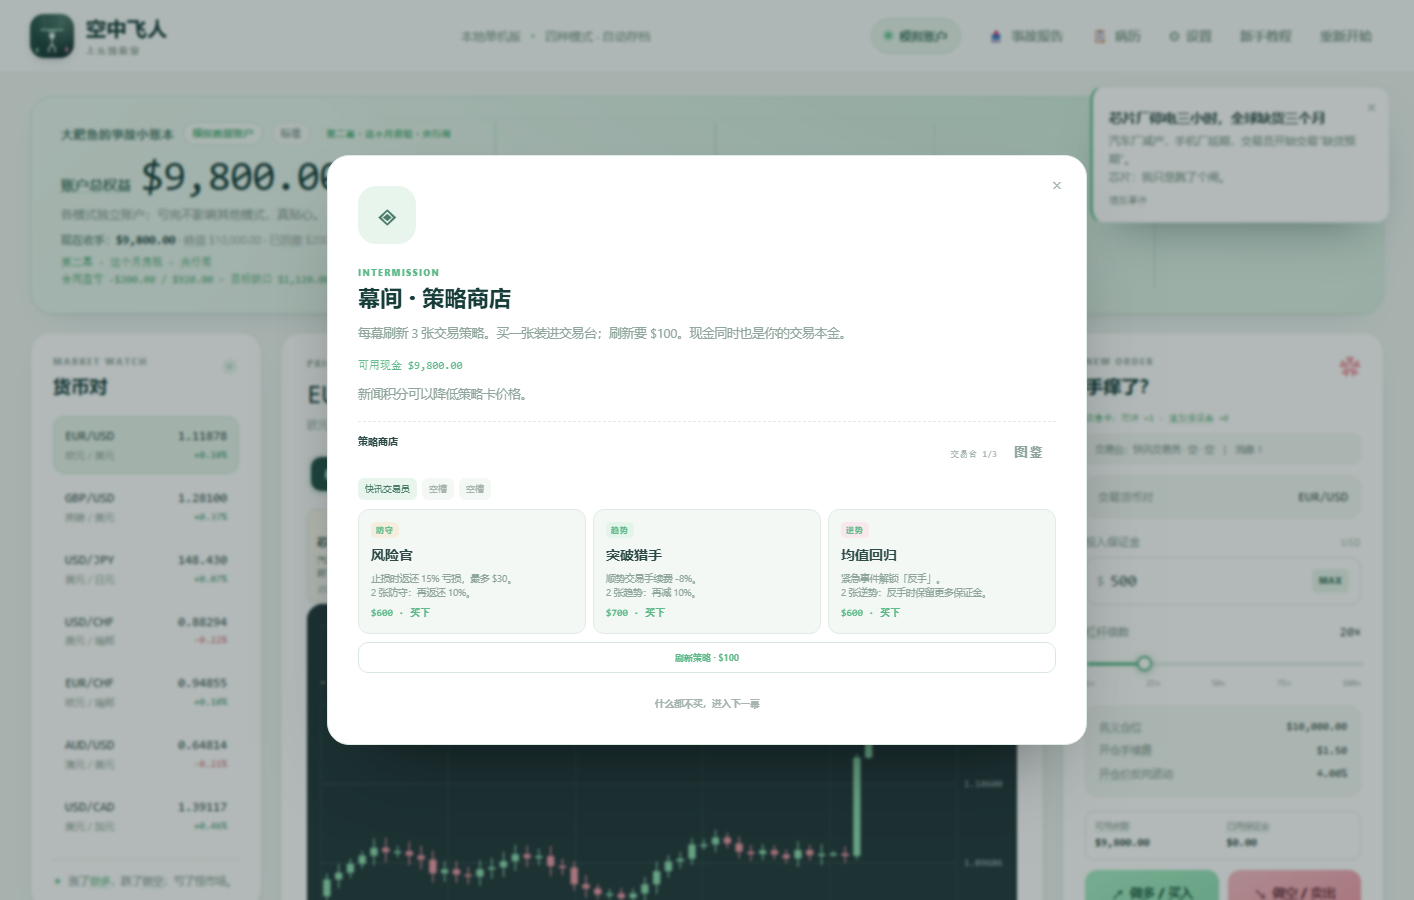
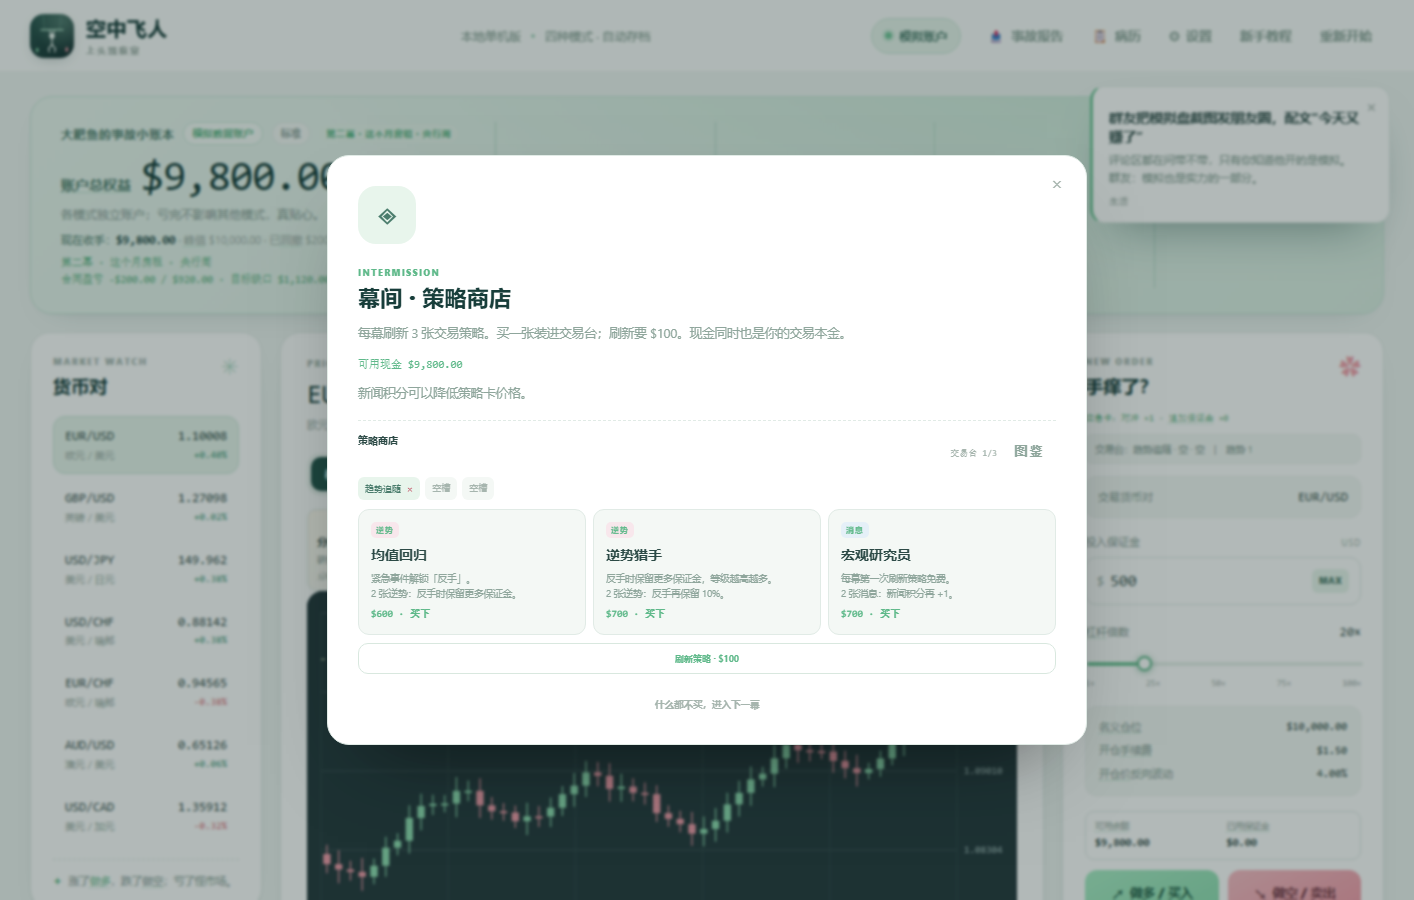
Differentiate strategy cards, add card upgrades, selling, and free reroll

diff --git a/engine.js b/engine.js
@@ -317,7 +317,19 @@
 
   function strategyDeckCards() {
     const ids = state.contract?.strategyDeck || [];
-    return ids.map(id => (D.STRATEGY_CARDS || []).find(card => card.id === id)).filter(Boolean);
+    const levels = state.contract?.strategyLevels || {};
+    return ids.map(id => {
+      const card = (D.STRATEGY_CARDS || []).find(item => item.id === id);
+      return card ? { ...card, level: Math.max(1, Math.min(3, Number(levels[id]) || 1)) } : null;
+    }).filter(Boolean);
+  }
+
+  function strategyLevel(cardId) {
+    return Math.max(1, Math.min(3, Number(state.contract?.strategyLevels?.[cardId]) || 1));
+  }
+
+  function strategyHasCard(cardId) {
+    return (state.contract?.strategyDeck || []).includes(cardId);
   }
 
   function strategyStyleCount(style) {
@@ -346,6 +358,7 @@
     if (!contract || !contract.strategyPending) return { ok: false, message: '现在不需要选择起始策略。' };
     if (!(contract.strategyStartOffers || []).includes(cardId)) return { ok: false, message: '这张策略不在本次选择里。' };
     contract.strategyDeck = [cardId];
+    contract.strategyLevels = { [cardId]: 1 };
     contract.strategyPending = false;
     contract.strategyStartOffers = [];
     contract.strategyOffers = [];
@@ -357,7 +370,7 @@
   function refreshStrategyOffers() {
     const contract = state.contract;
     if (!contract || settings.coachMode) return [];
-    contract.strategyOffers = drawStrategyCards(3, contract.strategyDeck || []);
+    contract.strategyOffers = drawStrategyCards(3, []);
     contract.strategyBought = false;
     save();
     emit();
@@ -367,19 +380,22 @@
   function rerollStrategyOffers() {
     const contract = state.contract;
     if (!contract || !contract.pendingShop || contract.strategyBought) return { ok: false, message: '现在不能刷新。' };
-    if (state.cash < 100) return { ok: false, message: '刷新需要 $100。' };
-    state.cash -= 100;
-    contract.strategyOffers = drawStrategyCards(3, contract.strategyDeck || []);
+    const cost = strategyFreeReroll() ? 0 : 100;
+    if (state.cash < cost) return { ok: false, message: `刷新需要 $${cost}。` };
+    state.cash -= cost;
+    contract.strategyOffers = drawStrategyCards(3, []);
     contract.strategyRerolls = (contract.strategyRerolls || 0) + 1;
     save();
     emit();
-    return { ok: true };
+    return { ok: true, cost };
   }
 
   function buyStrategyCard(cardId) {
     const contract = state.contract;
     if (!contract || !contract.pendingShop || contract.strategyBought) return { ok: false, message: '本次商店已经买过策略了。' };
-    if ((contract.strategyDeck || []).length >= 3) return { ok: false, message: '交易台已满。' };
+    const owned = (contract.strategyDeck || []).includes(cardId);
+    if (!owned && (contract.strategyDeck || []).length >= 3) return { ok: false, message: '交易台已满。' };
+    if (owned && strategyLevel(cardId) >= 3) return { ok: false, message: '这张策略已经满级。' };
     if ((contract.strategyOffers || []).length && !(contract.strategyOffers || []).includes(cardId)) {
       return { ok: false, message: '这张策略不在商店里。' };
     }
@@ -387,31 +403,67 @@
     const price = strategyPrice(card);
     if (!card || state.cash < price) return { ok: false, message: '现金不够。' };
     state.cash -= price;
-    contract.strategyDeck = [...(contract.strategyDeck || []), cardId];
+    contract.strategyLevels = contract.strategyLevels || {};
+    if (owned) {
+      contract.strategyLevels[cardId] = Math.min(3, strategyLevel(cardId) + 1);
+    } else {
+      contract.strategyDeck = [...(contract.strategyDeck || []), cardId];
+      contract.strategyLevels[cardId] = 1;
+    }
     contract.strategyBought = true;
     save();
     emit();
-    return { ok: true, card };
+    return { ok: true, card, level: contract.strategyLevels[cardId] };
+  }
+
+  function sellStrategyCard(cardId) {
+    const contract = state.contract;
+    if (!contract || !contract.pendingShop || contract.strategyBought) return { ok: false, message: '本次商店已经操作过了。' };
+    const card = (D.STRATEGY_CARDS || []).find(item => item.id === cardId);
+    if (!card || !(contract.strategyDeck || []).includes(cardId)) return { ok: false, message: '交易台没有这张策略。' };
+    const level = strategyLevel(cardId);
+    state.cash += Math.round(card.cost * level * 0.5);
+    contract.strategyDeck = contract.strategyDeck.filter(id => id !== cardId);
+    delete contract.strategyLevels[cardId];
+    contract.strategyBought = true;
+    save();
+    emit();
+    return { ok: true, card, refund: Math.round(card.cost * level * 0.5) };
   }
 
   function strategyFeeDiscount() {
-    const count = strategyStyleCount('trend');
-    if (!count) return 0;
-    return Math.min(0.2, count * 0.06 + (count >= 2 ? 0.05 : 0));
+    if (!strategyHasCard('trend-follow')) return 0;
+    const level = strategyLevel('trend-follow');
+    return Math.min(0.25, level * 0.05 + (strategyStyleCount('trend') >= 2 ? 0.05 : 0));
   }
 
   function strategyNewsBonus() {
-    const count = strategyStyleCount('news');
-    return count ? count + (count >= 2 ? 1 : 0) : 0;
+    if (!strategyHasCard('news-wire')) return 0;
+    return strategyLevel('news-wire') + (strategyStyleCount('news') >= 2 ? 1 : 0);
   }
 
   function strategyDefenseRate() {
-    const count = strategyStyleCount('defense');
-    return count ? Math.min(0.4, count * 0.15 + (count >= 2 ? 0.1 : 0)) : 0;
+    if (!strategyHasCard('defense-risk')) return 0;
+    return Math.min(0.4, strategyLevel('defense-risk') * 0.12 + (strategyStyleCount('defense') >= 2 ? 0.1 : 0));
+  }
+
+  function strategyTakeProfitBonus() {
+    if (!strategyHasCard('trend-break')) return 0;
+    return strategyLevel('trend-break') * 0.05;
+  }
+
+  function strategyFreeReroll() {
+    return strategyHasCard('news-macro') && (state.contract?.strategyRerolls || 0) === 0;
   }
 
   function strategyContrarianCount() {
     return strategyStyleCount('contrarian');
+  }
+
+  function strategyReverseKeep() {
+    const synergy = strategyStyleCount('contrarian') >= 2 ? 0.1 : 0;
+    if (strategyHasCard('contrarian-fade')) return Math.min(0.85, 0.5 + strategyLevel('contrarian-fade') * 0.1 + synergy);
+    return Math.min(0.85, 0.5 + synergy);
   }
 
   function contractGrade() {
@@ -540,6 +592,7 @@
       emergencyCount: 0,
       emergencyActive: false,
       strategyDeck: [],
+      strategyLevels: {},
       strategyPending: !!(!settings.coachMode && config.id !== 'free'),
       strategyStartOffers: [],
       strategyOffers: [],
@@ -614,6 +667,10 @@
       state.contract.strategyDeck = Array.isArray(state.contract.strategyDeck)
         ? state.contract.strategyDeck.filter(id => (D.STRATEGY_CARDS || []).some(card => card.id === id)).slice(0, 3)
         : [];
+      state.contract.strategyLevels = state.contract.strategyLevels && typeof state.contract.strategyLevels === 'object' ? state.contract.strategyLevels : {};
+      (state.contract.strategyDeck || []).forEach(id => {
+        state.contract.strategyLevels[id] = Math.max(1, Math.min(3, Math.floor(Number(state.contract.strategyLevels[id]) || 1)));
+      });
       state.contract.strategyPending = !settings.coachMode && !state.runClosed && !state.contract.strategyDeck.length
         ? true
         : !!state.contract.strategyPending;
@@ -919,6 +976,13 @@
       if (relief > 0) {
         state.cash += relief;
         state.contract.strategyRelief = (Number(state.contract.strategyRelief) || 0) + relief;
+      }
+    }
+    if (isContractActive() && meta.trigger === 'take' && pnl > 0) {
+      const bonus = pnl * strategyTakeProfitBonus();
+      if (bonus > 0) {
+        state.cash += bonus;
+        state.contract.strategyBonus = (Number(state.contract.strategyBonus) || 0) + bonus;
       }
     }
     state.positions.splice(index, 1);
@@ -1356,7 +1420,7 @@
       message = '使用对冲卡，平掉一半仓位。';
     } else if (action === 'margin') {
       const hasCard = contract.cards && (contract.cards.margin || 0) > 0;
-      const hasDefense = strategyStyleCount('defense') > 0;
+      const hasDefense = strategyHasCard('defense-fortress');
       if (!hasCard && !hasDefense) return { ok: false, message: '没有追加保证金手段。' };
       if (state.cash < 100) return { ok: false, message: '现金不足 $100。' };
       const pos = positions[0];
@@ -1373,7 +1437,7 @@
       const totalMargin = positions.reduce((sum, item) => sum + item.margin, 0);
       const side = -pos.side;
       positions.forEach(item => closePosition(item.id, false, { trigger: 'emergency', silent: true }));
-      state.margin = Math.max(10, Math.round(totalMargin * (strategyContrarianCount() >= 2 ? 0.75 : 0.5)));
+      state.margin = Math.max(10, Math.round(totalMargin * strategyReverseKeep()));
       const opened = openPosition(side, false);
       message = opened ? '逆势反手，仓位已反向。' : '反手失败，仓位已平。';
     } else {
@@ -2245,6 +2309,7 @@
     refreshStrategyOffers,
     rerollStrategyOffers,
     buyStrategyCard,
+    sellStrategyCard,
     strategyPrice,
     strategyDeckCards,
     strategyStyleCount,

diff --git a/ui.js b/ui.js
@@ -387,7 +387,7 @@
     addAction('close', '平仓避险', 'danger');
     if (E.strategyContrarianCount() > 0) addAction('reverse', '逆势反手', 'danger');
     addAction('hedge', `对冲卡 ×${cards.hedge || 0}`, '', !(cards.hedge > 0));
-    const hasDefense = E.strategyStyleCount('defense') > 0;
+    const hasDefense = E.strategyDeckCards().some(card => card.id === 'defense-fortress');
     addAction('margin', hasDefense && !(cards.margin > 0) ? '追加保证金（防守）' : `追加保证金 ×${cards.margin || 0}`, '', (!(cards.margin > 0) && !hasDefense) || E.state.cash < 100);
     addAction('hold', '硬扛', 'hold');
     $('emergencyModal').classList.remove('hidden');
@@ -418,7 +418,8 @@
       return;
     }
     const deck = E.strategyDeckCards();
-    const slots = [0, 1, 2].map(index => deck[index]?.name || '空');
+    const levelText = level => level > 1 ? ` ${'I'.repeat(level)}` : '';
+    const slots = [0, 1, 2].map(index => deck[index] ? `${deck[index].name}${levelText(deck[index].level)}` : '空');
     const styles = ['trend', 'news', 'contrarian', 'defense'].map(style => {
       const count = E.strategyStyleCount(style);
       return count ? `${({ trend: '趋势', news: '消息', contrarian: '逆势', defense: '防守' })[style]} ${count}` : '';
@@ -496,28 +497,43 @@
     const deck = E.strategyDeckCards();
     const offers = (contract.strategyOffers || []).length ? contract.strategyOffers : strategyOfferCache;
     if ((contract.strategyOffers || []).length) strategyOfferCache = contract.strategyOffers;
+    else if (strategyOfferCache.length) contract.strategyOffers = [...strategyOfferCache];
+    const freeReroll = E.strategyDeckCards().some(card => card.id === 'news-macro') && (contract.strategyRerolls || 0) === 0;
+    const levelText = level => level > 1 ? ` ${'I'.repeat(level)}` : '';
     root.innerHTML = `<div class="strategy-shop-head"><strong>策略商店</strong><span>交易台 ${deck.length}/3 <button type="button" id="strategyCodexBtn" class="text-button">图鉴</button></span></div>
-      <div class="strategy-shop-deck">${[0,1,2].map(i => deck[i] ? `<span>${deck[i].name}</span>` : '<span class="empty">空槽</span>').join('')}</div>
+      <div class="strategy-shop-deck">${[0,1,2].map(i => deck[i] ? `<span>${deck[i].name}${levelText(deck[i].level)} <button type="button" class="strategy-sell" data-sell="${deck[i].id}" title="卖出">×</button></span>` : '<span class="empty">空槽</span>').join('')}</div>
       <div class="strategy-offers"></div>
-      <button type="button" id="strategyReroll" class="outline-button strategy-reroll"${contract.strategyBought ? ' disabled' : ''}>刷新策略 · $100</button>`;
+      <button type="button" id="strategyReroll" class="outline-button strategy-reroll"${contract.strategyBought ? ' disabled' : ''}>刷新策略 · ${freeReroll ? '免费' : '$100'}</button>`;
     const offersRoot = root.querySelector('.strategy-offers');
     offers.forEach(cardId => {
       const card = (D.STRATEGY_CARDS || []).find(item => item.id === cardId);
       if (!card) return;
+      const owned = deck.find(item => item.id === card.id);
+      const level = owned?.level || 0;
       const price = E.strategyPrice(card);
       const button = document.createElement('button');
       button.type = 'button';
       button.className = 'strategy-offer';
-      button.disabled = !!contract.strategyBought || deck.length >= 3 || E.state.cash < price;
-      button.innerHTML = `<span class="strategy-style style-${card.style}">${card.styleLabel}</span><strong>${card.name}</strong><small>${card.desc}</small><b>$${price} · 买下</b>`;
+      button.disabled = !!contract.strategyBought || (owned ? level >= 3 : deck.length >= 3) || E.state.cash < price;
+      const action = owned ? `升级 ${level + 1 >= 3 ? 'III' : 'II'}` : '买下';
+      button.innerHTML = `<span class="strategy-style style-${card.style}">${card.styleLabel}</span><strong>${card.name}${level ? levelText(level) : ''}</strong><small>${card.desc}</small><b>$${price} · ${action}</b>`;
       button.addEventListener('click', () => {
         const result = E.buyStrategyCard(card.id);
         if (!result.ok) { toast(result.message || '买不了。'); return; }
         renderShop();
         render();
-        toast(`加入交易台：${card.name}。`);
+        toast(`${owned ? '升级' : '加入交易台'}：${card.name}${result.level > 1 ? levelText(result.level) : ''}。`);
       });
       offersRoot.append(button);
+    });
+    root.querySelectorAll('.strategy-sell').forEach(button => {
+      button.addEventListener('click', () => {
+        const result = E.sellStrategyCard(button.dataset.sell);
+        if (!result.ok) { toast(result.message || '卖不了。'); return; }
+        renderShop();
+        render();
+        toast(`卖出「${result.card.name}」，返还 ${D.money(result.refund)}。`);
+      });
     });
     root.querySelector('#strategyReroll')?.addEventListener('click', () => {
       const result = E.rerollStrategyOffers();

diff --git a/data.js b/data.js
@@ -582,15 +582,15 @@
     },
     {
       id: 'trend-break', name: '突破猎手', style: 'trend', styleLabel: '趋势', cost: 700,
-      desc: '顺势交易手续费 -8%。\n2 张趋势：再减 10%。'
+      desc: '止盈时额外获得 5% 利润/级。\n2 张趋势：手续费再减 10%。'
     },
     {
       id: 'news-wire', name: '快讯交易员', style: 'news', styleLabel: '消息', cost: 600,
-      desc: '新闻判断正确时，额外 +1 新闻积分。\n2 张消息：再 +1。'
+      desc: '新闻判断正确时，额外 +1 新闻积分/级。\n2 张消息：再 +1。'
     },
     {
       id: 'news-macro', name: '宏观研究员', style: 'news', styleLabel: '消息', cost: 700,
-      desc: '新闻判断正确时，额外 +1 新闻积分。\n2 张消息：再 +1。'
+      desc: '每幕第一次刷新策略免费。\n2 张消息：新闻积分再 +1。'
     },
     {
       id: 'contrarian-revert', name: '均值回归', style: 'contrarian', styleLabel: '逆势', cost: 600,
@@ -598,15 +598,15 @@
     },
     {
       id: 'contrarian-fade', name: '逆势猎手', style: 'contrarian', styleLabel: '逆势', cost: 700,
-      desc: '紧急事件解锁「反手」。\n2 张逆势：反手时保留更多保证金。'
+      desc: '反手时保留更多保证金，等级越高越多。\n2 张逆势：反手再保留 10%。'
     },
     {
       id: 'defense-risk', name: '风险官', style: 'defense', styleLabel: '防守', cost: 600,
-      desc: '止损时返还 15% 亏损，最多 $30。\n2 张防守：再返还 10%。'
+      desc: '止损时返还 12% 亏损/级，最多 $30。\n2 张防守：再返还 10%。'
     },
     {
       id: 'defense-fortress', name: '铁壁', style: 'defense', styleLabel: '防守', cost: 700,
-      desc: '止损时返还 15% 亏损，最多 $30。\n2 张防守：再返还 10%。'
+      desc: '紧急事件解锁「追加保证金」。\n2 张防守：止损再返还 10%。'
     }
   ];
 

diff --git a/styles.css b/styles.css
@@ -611,6 +611,7 @@ body.coach-mode .news-prompt { display: none !important; }
 .strategy-shop-head span { font-family: var(--font-mono); font-size: 9px; color: var(--text-dim); }
 .strategy-shop-deck { display: flex; gap: 5px; margin-top: 7px; }
 .strategy-shop-deck span { padding: 4px 7px; border-radius: 6px; background: var(--tint-green); color: var(--green-text); font-size: 9px; }
+.strategy-sell { border: 0; background: transparent; color: var(--short-text); font-size: 10px; padding: 0 0 0 3px; }
 .strategy-shop-deck .empty { background: var(--surface-tint); color: var(--text-dim); }
 .strategy-offers { display: grid; grid-template-columns: repeat(3, minmax(0, 1fr)); gap: 7px; margin-top: 9px; }
 .strategy-reroll { width: 100%; margin-top: 8px; padding: 8px; font-size: 9px; color: var(--accent-deep); }

diff --git a/README.md b/README.md
@@ -165,23 +165,25 @@ node server.js
 
 困难模式签下合同后，先从 3 张起始策略里选 1 张。交易台最多 3 张策略卡。
 
-四类流派，每类 2 张：
+四类流派，每类 2 张，效果不重复：
 
-| 流派 | 示例效果 |
+| 流派 | 两张卡的分工 |
 |---|---|
-| 趋势 | 顺势交易手续费降低；2 张再额外降低 |
-| 消息 | 新闻判断正确额外获得新闻积分；2 张再 +1 |
-| 逆势 | 紧急事件解锁反手；2 张反手保留更多保证金 |
-| 防守 | 止损返还 15%；2 张再返还 10% |
+| 趋势 | 趋势追随：顺势手续费降低；突破猎手：止盈额外利润 |
+| 消息 | 快讯交易员：新闻积分更多；宏观研究员：每幕第一次刷新免费 |
+| 逆势 | 均值回归：紧急事件反手；逆势猎手：反手保留更多保证金 |
+| 防守 | 风险官：止损返还；铁壁：紧急事件解锁追加保证金 |
 
 每张策略卡都带彩色流派标签：趋势、消息、逆势、防守。
 
 每幕事件结束后进入策略商店：
 
-- 随机刷 3 张策略；
-- 买一张进交易台；
-- 刷新一次 $100；
-- 每幕只能买一张；
+- 随机刷 3 张策略，可能刷到已拥有策略；
+- 买一张进交易台，或升级已拥有的同名牌；
+- 同名牌可升到 **II / III**；
+- 刷新一次 $100，宏观研究员让每幕第一次刷新免费；
+- 每幕只能买/升/卖一次；
+- 可以把交易台上的策略卖出，返还 50%；
 - 新闻积分每点让策略卡便宜 $50，最多 -$300；
 - 买卡直接扣现金，和保证金共用一笔钱；
 - 商店右上角的「图鉴」可以查看全部 8 张策略、费用和效果。
